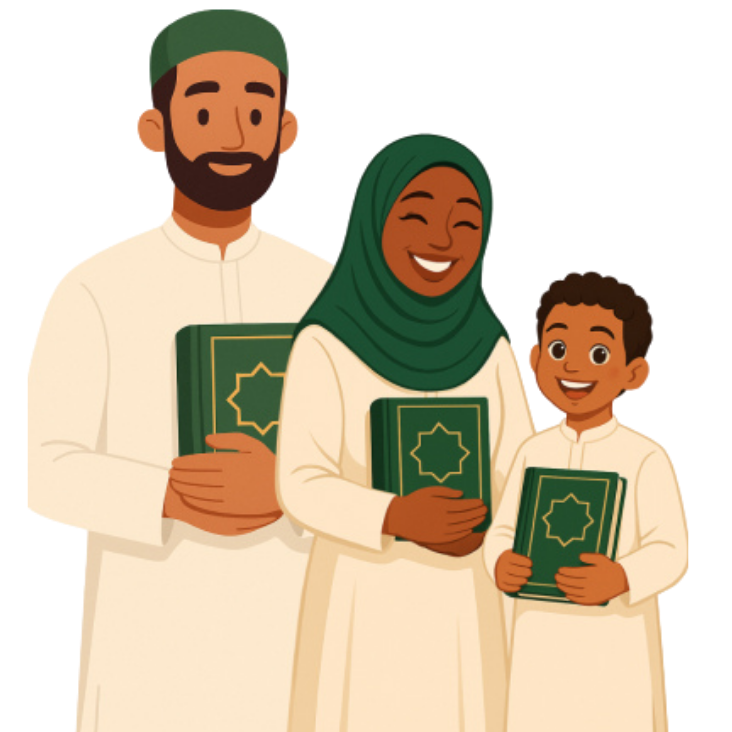
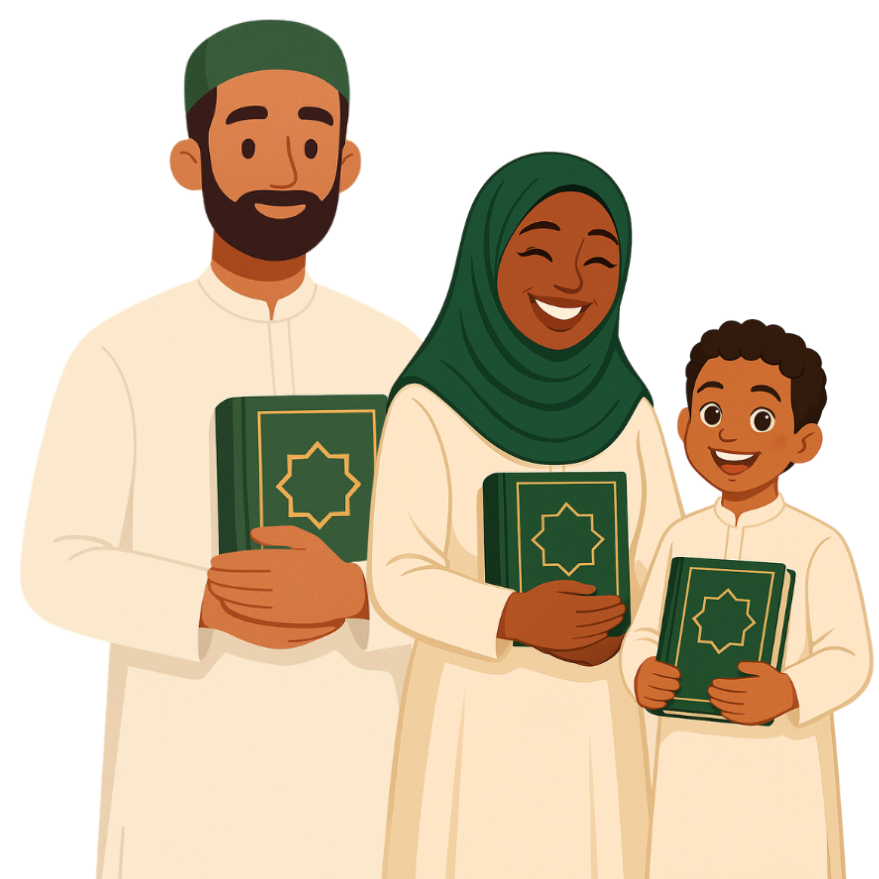
feat: améliorations UI - ajustements images splash et page d'accueil, nouvelle icône tasbih

diff --git a/src/screens/HomeScreen.tsx b/src/screens/HomeScreen.tsx
@@ -102,7 +102,11 @@ Le raccourcissement et la combinaison des prières sont permis au voyageur pour 
 const CategoryButton = ({ icon, title, onPress }: { icon: any; title: string; onPress: () => void }) => (
   <TouchableOpacity style={styles.categoryButton} onPress={onPress}>
     <View style={styles.categoryIconCircle}>
-      <MaterialCommunityIcons name={icon} size={24} color={colors.primary} />
+      <MaterialCommunityIcons 
+        name={icon} 
+        size={icon === 'hands-pray' ? 28 : 24} 
+        color={colors.primary} 
+      />
     </View>
     <Text style={styles.categoryButtonText} numberOfLines={1} ellipsizeMode="tail">{title}</Text>
   </TouchableOpacity>
@@ -260,12 +264,32 @@ export default function HomeScreen() {
 
   const handleNotificationPress = React.useCallback(async () => {
     console.log('🔔 Bouton notification cliqué !');
+    console.log('📍 Début de handleNotificationPress');
+    
     try {
+      console.log('📱 Tentative de sauvegarde AsyncStorage...');
       await AsyncStorage.setItem('@last_notification_read', new Date().toISOString());
+      console.log('✅ AsyncStorage sauvegardé avec succès');
+      
+      console.log('🔄 Remise à zéro du compteur...');
       setNewNotificationsCount(0);
+      console.log('✅ Compteur remis à zéro');
+      
+      console.log('🧭 Tentative de navigation vers Notifications...');
       navigation.navigate('Notifications');
+      console.log('✅ Navigation lancée avec succès');
+      
     } catch (error) {
       console.error('❌ Erreur lors de la navigation vers Notifications:', error);
+      console.error('🔍 Détails complets de l\'erreur:', JSON.stringify(error, null, 2));
+      
+      // Fallback : essayer de naviguer directement
+      try {
+        console.log('🔄 Tentative de navigation alternative...');
+        navigation.navigate('Notifications' as never);
+      } catch (fallbackError) {
+        console.error('❌ Erreur de navigation alternative:', fallbackError);
+      }
     }
   }, [navigation]);
 
@@ -345,7 +369,12 @@ export default function HomeScreen() {
               Bienvenue {user?.displayName || user?.email?.split('@')[0] || ''}
             </Text>
           </View>
-          <TouchableOpacity onPress={handleNotificationPress} style={styles.notificationButton}>
+          <TouchableOpacity 
+            onPress={handleNotificationPress} 
+            style={styles.notificationButton}
+            activeOpacity={0.7}
+            hitSlop={{ top: 10, bottom: 10, left: 10, right: 10 }}
+          >
             <MaterialCommunityIcons name="bell-outline" size={24} color={colors.text} />
             {newNotificationsCount > 0 && (
               <View style={styles.notificationBadge}>
@@ -377,7 +406,7 @@ export default function HomeScreen() {
             <CategoryButton icon="book-open-variant" title="Livres" onPress={() => navigation.navigate('Books')} />
             <CategoryButton icon="clock-time-four-outline" title="Heure de prière" onPress={() => navigation.navigate('Horaires')} />
             <CategoryButton icon="puzzle" title="Quiz" onPress={() => navigation.navigate('Quiz')} />
-            <CategoryButton icon="hand-heart" title="Tasbih" onPress={() => navigation.navigate('Tasbih')} />
+            <CategoryButton icon="hands-pray" title="Tasbih" onPress={() => navigation.navigate('Tasbih')} />
           </View>
         </View>
 
@@ -597,7 +626,7 @@ const styles = StyleSheet.create({
   bannerTextContainer: {
     flex: 1,
     paddingRight: 40,
-    maxWidth: '60%',
+    maxWidth: '70%',
   },
   bannerTitle: {
     fontSize: 14,
@@ -619,12 +648,12 @@ const styles = StyleSheet.create({
     fontSize: 13,
   },
   bannerImage: {
-    width: 240,
-    height: 300,
+    width: 140,
+    height: 180,
     resizeMode: 'contain',
     position: 'absolute',
-    right: -60,
-    bottom: -80,
+    right: -30,
+    bottom: -30,
   },
   section: {
     marginBottom: 20,

diff --git a/App.tsx b/App.tsx
@@ -135,11 +135,11 @@ export default function App() {
   if (loading) {
     console.log('⏳ App en état de chargement - user:', user, 'loading:', loading);
     return (
-      <View style={{ flex: 1, backgroundColor: '#F3F5F7', justifyContent: 'center', alignItems: 'center' }}>
-        <Text style={{ fontSize: 18, color: '#174C3C' }}>Chargement...</Text>
+    <View style={{ flex: 1, backgroundColor: '#F3F5F7', justifyContent: 'center', alignItems: 'center' }}>
+      <Text style={{ fontSize: 18, color: '#174C3C' }}>Chargement...</Text>
         <Text style={{ fontSize: 14, color: '#666', marginTop: 10 }}>Initialisation de l'authentification</Text>
-      </View>
-    );
+    </View>
+  );
   }
 
   // Logs de débogage détaillés
@@ -154,11 +154,11 @@ export default function App() {
 
   return (
     <SafeAreaProvider>
-      <AuthContext.Provider value={{ user, setUser }}>
-        <GestureHandlerRootView style={{ flex: 1 }}>
-          <SafeAreaView style={{ flex: 1, backgroundColor: '#F3F5F7' }} edges={["top","bottom"]}>
-            <StatusBar barStyle="light-content" backgroundColor="#174C3C" />
-            <NavigationContainer>
+    <AuthContext.Provider value={{ user, setUser }}>
+      <GestureHandlerRootView style={{ flex: 1 }}>
+        <SafeAreaView style={{ flex: 1, backgroundColor: '#F3F5F7' }} edges={["top","bottom"]}>
+          <StatusBar barStyle="light-content" backgroundColor="#174C3C" />
+          <NavigationContainer>
             <Stack.Navigator 
               screenOptions={{ 
                 headerShown: false,
@@ -244,11 +244,11 @@ const styles = StyleSheet.create({
     width: '100%',
   },
   splashFamilleLogo: {
-    width: 160,
-    height: 160,
+    width: 200,
+    height: 200,
     resizeMode: 'contain',
     marginBottom: 0,
-    marginTop: 8,
+    marginTop: 40,
     alignSelf: 'center',
   },
   splashFamilleTextContainer: {
@@ -258,33 +258,33 @@ const styles = StyleSheet.create({
     marginBottom: 8,
   },
   splashMainTitle: {
-    fontSize: 24,
+    fontSize: 32,
     fontWeight: 'bold',
     color: '#174C3C',
     marginBottom: 8,
     textAlign: 'center',
   },
   splashSubtitleGreen: {
-    fontSize: 16,
+    fontSize: 20,
     fontWeight: '600',
     color: '#174C3C',
     marginBottom: 10,
     textAlign: 'center',
   },
   splashDescription: {
-    fontSize: 13,
+    fontSize: 17,
     color: '#174C3C',
     textAlign: 'center',
     marginBottom: 0,
-    lineHeight: 18,
+    lineHeight: 22,
   },
   splashFamilleImageXL: {
     width: '110%',
-    height: '60%',
+    height: '55%',
     resizeMode: 'cover',
     position: 'absolute',
     bottom: 0,
-    left: '-5%',
+    left: '-10%',
     marginBottom: 0,
     marginTop: 0,
     alignSelf: 'center',

diff --git a/src/screens/TasbihScreen.tsx b/src/screens/TasbihScreen.tsx
@@ -475,7 +475,7 @@ export default function TasbihScreen() {
             </View>
           </View>
         </Modal>
-    </View>
+      </View>
   );
 }
 
@@ -609,7 +609,7 @@ const styles = StyleSheet.create({
     marginBottom: 8,
     lineHeight: 32,
   },
-  zikrDescription: {
+  zikrDescription: { 
     fontSize: 14,
     color: colors.gray, 
     textAlign: 'center',
@@ -625,7 +625,7 @@ const styles = StyleSheet.create({
     marginRight: 16,
   },
   progressCount: {
-    fontSize: 14,
+    fontSize: 14, 
     fontWeight: '600',
     color: colors.text,
     marginBottom: 6,

diff --git a/src/screens/HorairesScreen.tsx b/src/screens/HorairesScreen.tsx
@@ -3,7 +3,6 @@ import * as Location from 'expo-location';
 import * as Notifications from 'expo-notifications';
 import React, { useEffect, useState } from 'react';
 import { ActivityIndicator, Image, Modal, StyleSheet, Text, TextInput, TouchableOpacity, View } from 'react-native';
-import { SafeAreaView } from 'react-native-safe-area-context';
 import colors from '../theme/colors';
 
 const PRAYER_LABELS = [
@@ -207,7 +206,7 @@ export default function HorairesScreen() {
   }
 
   return (
-    <SafeAreaView style={styles.container}>
+    <View style={styles.container}>
       {/* Header allégé avec bouton retour */}
       <View style={styles.headerRow}>
         <TouchableOpacity onPress={() => navigation.goBack()} style={styles.backButton}>
@@ -325,7 +324,7 @@ export default function HorairesScreen() {
           </View>
         </View>
       </Modal>
-    </SafeAreaView>
+    </View>
   );
 }
 

diff --git a/src/hooks/useAuth.ts b/src/hooks/useAuth.ts
@@ -137,7 +137,7 @@ export function useAuth() {
         } else {
           // Utilisateur non connecté
           if (isMounted) {
-            setUser(null);
+          setUser(null);
             setLoading(false);
             if (initializing) setInitializing(false);
           }
@@ -157,7 +157,7 @@ export function useAuth() {
       } catch (error) {
         console.error('❌ Erreur dans onAuthStateChanged:', error);
         if (isMounted) {
-          setLoading(false);
+        setLoading(false);
           if (initializing) setInitializing(false);
         }
       }